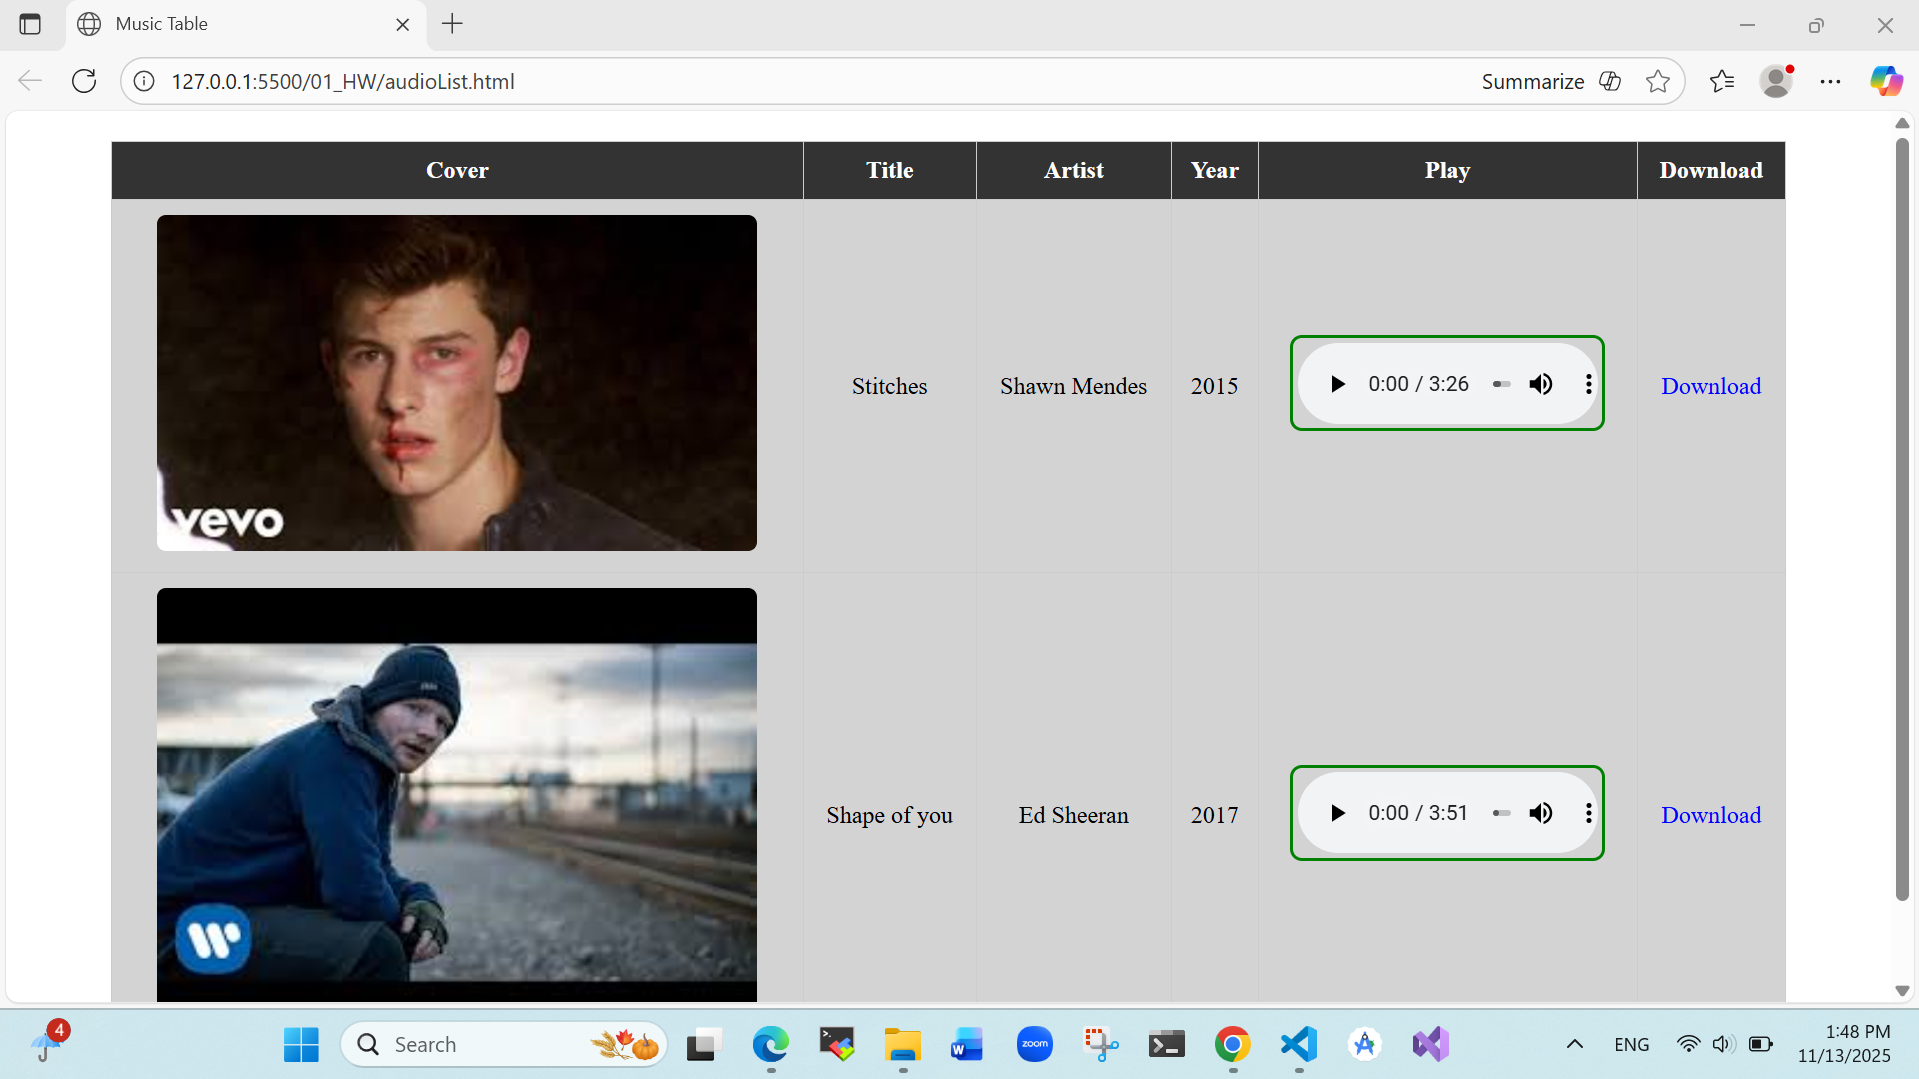
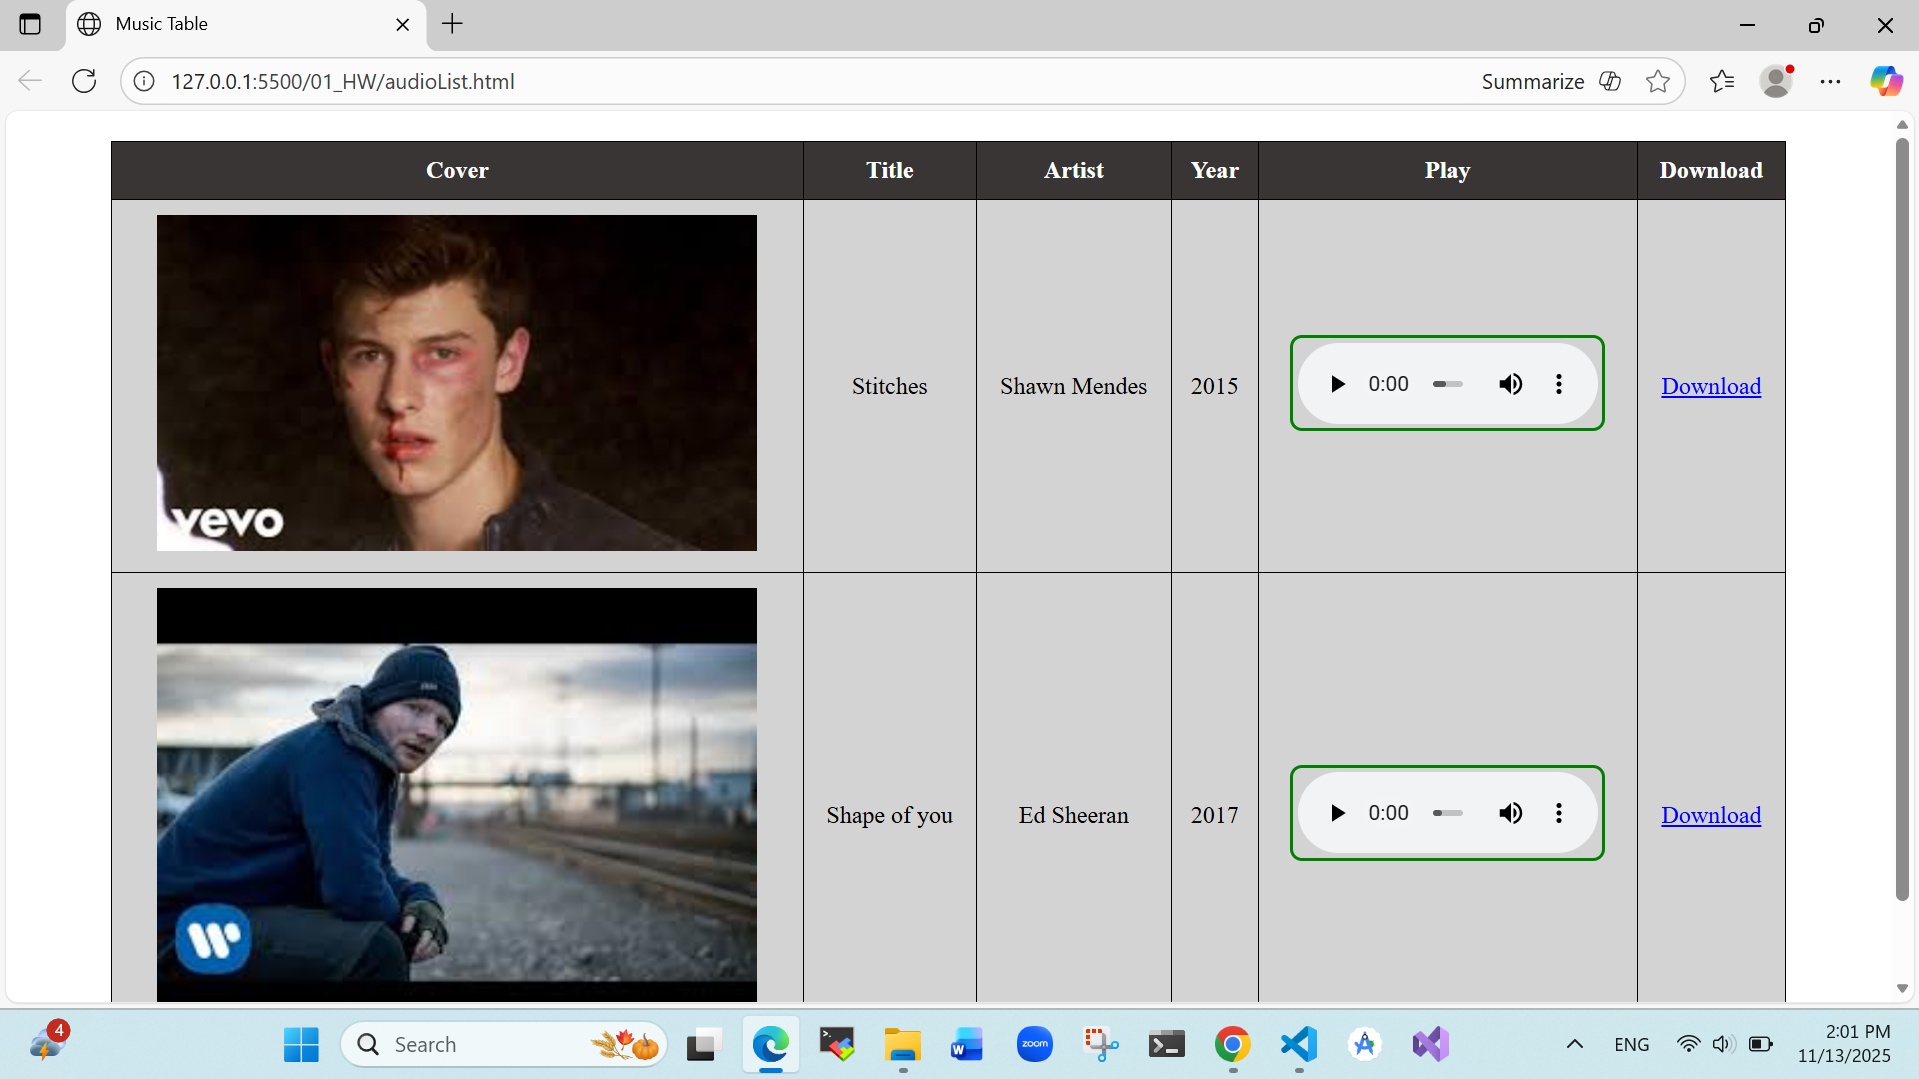
Update Audiolist

diff --git a/01_HW/audioList.css b/01_HW/audioList.css
@@ -7,20 +7,16 @@
 
         th,
         td {
-            border: 1px solid #ccc;
+            border: 1px solid black;
             text-align: center;
             padding: 10px;
-            background-color: brightgray;
+            background-color: lightgray;
         }
 
         th {
-            background-color: #333;
+            background-color: rgb(57, 53, 53);
             color: white;
 
-        }
-
-        tr:nth-child(even) {
-            background-color: brightgray;
         }
 
         audio {
@@ -32,13 +28,4 @@
 
         a {
             color: blue;
-            text-decoration: none;
-        }
-
-        a:hover {
-            text-decoration: underline;
-        }
-
-        img {
-            border-radius: 6px;
         }
